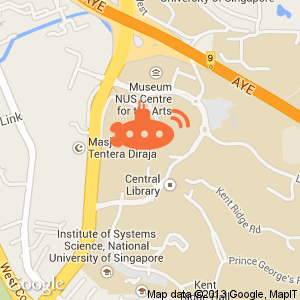
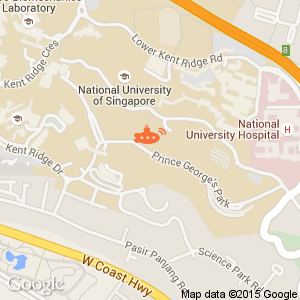
Changed address,directions,map to PGPR. Removed OCEANS'15

diff --git a/contact/index.html b/contact/index.html
@@ -30,8 +30,8 @@ function toggle() {
 <div class="contacts">
 <div class="col1">
 
-  <img src="{{ site.baseurl }}/images/SubneroMap.png">
-  <a href="http://maps.google.com/maps?f=q&amp;source=s_q&amp;hl=en&amp;geocode=&amp;q=4%2BEngineering%2BDrive%2B3%2BSingapore%2B117583&amp;ie=UTF8&amp;z=16&amp;t=m&amp;iwloc=near">View Larger Map</a>
+  <img src="{{ site.baseurl }}/images/SubneroMap.png">  
+  <a href="https://www.google.com/maps/place/8+Prince+George's+Park,+7A-01-02,+Singapore+118407" target="_blank">View Larger Map</a>
 
 </div>
 <div class="col2">
@@ -40,11 +40,11 @@ function toggle() {
   <b>Subnero Pte. Ltd.</b>
   <div class="vcard">
   <p class="adr">
-  <span class="street-address">4 Engineering Drive 3,</span><br>
-  <span class="region">E4-02-12X,</span><br>
+  <span class="street-address">  8 Prince George's Park,</span><br>
+  <span class="region">7A-01-02,</span><br>
   <span class="country-name">Singapore</span>
 
-  <span class="postal-code">117583</span><br>
+  <span class="postal-code">118407</span><br>
   </p>
   <p class="tel">Tel: +65 9819 9552</p>
   </div>
@@ -266,10 +266,10 @@ function mce_success_cb(resp){
 
 </script>
 <!--End mc_embed_signup-->
-<div class="OCEANS">
+<!--<div class="OCEANS">
   <h1>Meet Subnero at OCEANS' 15</h1>
   <p>Subnero will be exhibiting at OCEANS’ May 18-21st, 2015 at Genoa, Italy.<br><a href="https://www.google.com/maps/place/Centro+Congressi+-+Porto+Antico+di+Genova/@44.412703,8.918326,16z/data=!4m5!1m2!2m1!1sCentro+Congressi+-+Porto+Antico+di+Genova,+Magazzini+del+Cotone,+Modulo+9+-+1°+piano,+Genova,+Italy!3m1!1s0x12d343e0f5dca5b1:0x5ba186f3b55c4ebc?hl=en-GB"target="_blank">Visit us!</a> </p>
-</div>
+</div> -->
 
 </div>
 
@@ -281,31 +281,12 @@ function mce_success_cb(resp){
   <ul>
   <li>Alight at Kent Ridge MRT station (CC24)</li>
   <li>Take exit towards Lower Kent Ridge road (Exit A)</li>
-  <li>Walk to Kent Ridge bus stop (Stop ID: 18331)</li>
-  <li>Take SBS bus 95 towards Kent Ridge Terrace</li>
-  <li>Alternatively, the internal shuttle bus A1</li>
-  <li>Alight at Yusof Ishak House bus stop (Stop ID: 16171)</li>
-  <li>Walk towards NUS visitors Lodge</li>
-  <li>We are located at level 2 of block E4 (its behind the visitors lodge)</li>
+  <li>Walk to Kent Ridge bus stop</li>
+  <li>Take internal shuttle bus A2 or D2</li>
+  <li>Alight Prince George's Park Residences (PGPR)</li>
+  <li>Walk along Prince George's Park road till you reach block 7</li>
+  <li>We are located at level 1, unit 2 of block 7A</li>
 </ul>
-
-<br>
-<h2>By Bus</h2>
-<ul>
-<li>Take SBS bus 95 or 151 towards Kent Ridge Terrace and alight at "Yusof Ishak House" bus stop (Stop ID: 16171)</li>
-<li>Or, take SBS bus 96 (Clementi Loop) and alight at "Opposite Yusof Ishak House" bus stop (Stop ID: 16179)</li>
-<li>Alternatively, you can take any of the NUS internal shuttle buses which goes to the above bus stops</li>
-<li>Walk towards the NUS Vistors Lodge</li>
-<li>We are located at level 2 of block E4 (its behind the visitors lodge)</li>
-
-</ul>
-<br><h2>By Taxi</h2>
-<ul>
-<li>Instruct the taxi driver to go to National University of Singapore</li>
-<li>Alight near the Visitors Lodge near Yusof Ishak house</li>
-<li>We are located at level 2 of block E4 (its behind the visitors lodge)</li>
-</ul>
-
 <br>
 
 </div>
